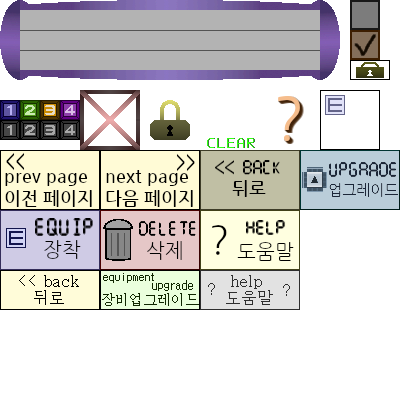
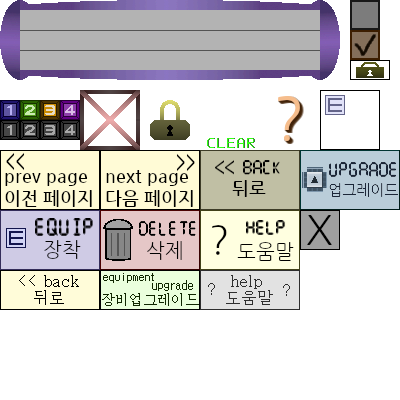
2026/09/02 v0.55.3 - mouse click, keyboard input

Changed region(s): [[0.75, 0.51, 0.87, 0.63]]

diff --git a/js/tamshooter4.js b/js/tamshooter4.js
@@ -149,12 +149,12 @@ class BoxObject {
   }
 
   /**
-   * 박스를 클릭한 경우 (참고: 마우스 좌표값을 넣지 않으면 박스 입장에서 박스를 클릭했는지 알 수 없습니다.)
+   * 박스를 클릭한 경우에 사용해주세요. (참고: 마우스 좌표값을 넣지 않으면 박스 입장에서 박스를 클릭했는지 알 수 없습니다.)
    * @param {number} mouseX 클릭한 마우스의 x좌표
    * @param {number} mouseY 클릭한 마우스의 y좌표
    */
   click (mouseX, mouseY) {
-    if (this.hidden) return
+    if (this.hidden) return false
 
     if (this.collision(mouseX, mouseY)) {
       this.clicked = true
@@ -162,7 +162,144 @@ class BoxObject {
       this.clicked = false
     }
   }
+
+  /** 마우스의 위치와 충돌되었습니까?, 마우스 좌표를 입력하면 마우스와 이 박스가 충돌되었는지를 검사합니다. */
+  getCollision (mouseX = 0, mouseY = 0) {
+    if (this.collision(mouseX, mouseY)) {
+      return true
+    } else {
+      return false
+    }
+  }
 }
+
+
+class UIComponentObject {
+  constructor () {
+    /** 
+     * 배경 그라디언트 색 목록
+     * 
+     * 아무것도 없으면 배경색 없음. 1종류면 단색 처리
+     * @type {string[]}
+     */ 
+    this.backgroundColor = ['red', 'blue']
+
+    this.TITLE_HEIGHT = imageDataInfo.mainSystem.uiClose.height
+    this.titleBackground = ['grey']
+
+    /** 레이어 레벨, 이 값이 0인 경우, 취소 버튼을 누를 때 화면이 닫힙니다. */
+    this.layerLevel = 0
+
+    /** 이 창이 열려있는가?, 창을 닫아야 할 때를 알아내기 위해 만든 변수 */
+    this.isOpen = true
+
+    this.x = 250
+    this.y = 100
+    this.width = 500
+    this.height = 100
+
+    this.tilteImageSrc = imageSrc.system.menuList
+    this.tilteImageObject = imageDataInfo.menuList.roundSelect
+    
+    let uiWidth = imageDataInfo.mainSystem.uiClose.width
+    this.uiCloseBox = new BoxImageObject(this.x + this.width - uiWidth, this.y, uiWidth, imageDataInfo.mainSystem.uiClose.height, '', imageSrc.system.mainSystem, imageDataInfo.mainSystem.uiClose)
+  }
+
+  /** 어떤 버튼이 눌렸는지를 오브젝트로 확인합니다. 버튼이 눌린것은 boolean값으로 확인해야합니다. */
+  getButtonObject () {
+    const buttonA = game.control.getButtonInput(game.control.buttonIndex.A)
+    const buttonB = game.control.getButtonInput(game.control.buttonIndex.B)
+    const buttonX = game.control.getButtonInput(game.control.buttonIndex.X)
+    const buttonY = game.control.getButtonInput(game.control.buttonIndex.Y)
+    const buttonUp = game.control.getButtonInput(game.control.buttonIndex.UP)
+    const buttonDown = game.control.getButtonInput(game.control.buttonIndex.DOWN)
+    const buttonLeft = game.control.getButtonInput(game.control.buttonIndex.LEFT)
+    const buttonRight = game.control.getButtonInput(game.control.buttonIndex.RIGHT)
+    const buttonSkill0 = game.control.getButtonInput(game.control.buttonIndex.L1)
+    const buttonSkill1 = game.control.getButtonInput(game.control.buttonIndex.L2)
+    const buttonSkill2 = game.control.getButtonInput(game.control.buttonIndex.R1)
+    const buttonSkill3 = game.control.getButtonInput(game.control.buttonIndex.R2)
+    return  {
+      buttonA, buttonB, buttonX, buttonY,
+      buttonUp, buttonDown, buttonLeft, buttonRight, buttonSkill0, buttonSkill1, buttonSkill2, buttonSkill3
+    }
+  }
+
+  /** 너비, 높이 설정 */
+  setWidthHeight (width = 400, height = 100) {
+    this.width = width
+    this.height = height
+  }
+
+  process () {
+    // 창이 열려있지 않으면 아무 동작도 하지 않음.
+    if (!this.isOpen) return
+
+    this.processButton()
+    this.processMouse()
+    this.processSelect()
+    this.processCancel()
+    this.processClose()
+  }
+
+  /** 선택을 했을 때 (마우스 클릭, 또는 A버튼) */
+  processSelect () {
+
+  }
+
+  /** 취소를 했을 때 (마우스 클릭 위치가 X표시 부분, 또는 B버튼) */
+  processCancel () {
+
+  }
+
+  /** 창을 닫아야 하거나 닫았을 때 처리 */
+  processClose () {
+    
+  }
+
+  /** 창을 엽니다. */
+  open () {
+    this.isOpen = true
+  }
+
+  /** 창을 닫습니다. */
+  close () {
+    this.isOpen = false
+  }
+
+  /** 버튼을 눌렀을 때 */
+  processButton () {
+    let button = this.getButtonObject()
+    if (button.buttonB) {
+      this.close()
+    }
+  }
+
+  /** 마우스를 움직이거나 클릭했을 때 */
+  processMouse () {
+    if (game.control.getMouseClick()) {
+      if (this.uiCloseBox.collision(game.control.mouseX, game.control.mouseY)) {
+        this.close()
+      }
+    }
+  }
+
+  /** 출력 함수 */
+  display () {
+    // 창이 열려있지 않으면 아무 동작도 하지 않음.
+    if (!this.isOpen) return
+
+    this.displayBackground()
+    gameFunction.imageObjectDisplay(this.tilteImageSrc, this.tilteImageObject, this.x, this.y)
+    this.uiCloseBox.display()
+  }
+
+  displayBackground () {
+    game.graphic.gradientRect(this.x, this.y, this.width, this.height, this.backgroundColor)
+    game.graphic.gradientRect(this.x, this.y, this.width, this.TITLE_HEIGHT, this.titleBackground)
+  }
+}
+
 
 /**
  * 클릭 가능한 BoxObject지만, 이미지를 사용합니다.
@@ -3287,6 +3424,8 @@ export class gameSystem {
   /** etc... 시스템 */ static etcSystem = new EtcSystem()
   /** error 시스템 */ static errorSystem = new ErrorSystem()
 
+  static testUI = new UIComponentObject()
+
 
   /** 현재 게임의 옵션 데이터를 가져옵니다. */
   static getGameOption () {
@@ -3791,6 +3930,8 @@ export class gameSystem {
     this.processSave()
     this.processLoad()
     this.processDebug()
+
+    this.testUI.process()
   }
 
   static fieldProcess () {
@@ -3896,6 +4037,8 @@ export class gameSystem {
       this.userSystem.display()
       this.displayStatLine()
     }
+
+    this.testUI.display()
     
   }
 

diff --git a/js/tamsaEngine/control.js b/js/tamsaEngine/control.js
@@ -325,6 +325,7 @@ export class ControlSystem {
       const canvasZoomHeight = targetElement.clientHeight / targetElement.height
 
       // 마우스의 현재 좌표를 입력합니다.
+      this.setMouseMove()
       this.setMousePosition(e.offsetX / canvasZoomWidth, e.offsetY / canvasZoomHeight)
       e.preventDefault()
     })
@@ -600,8 +601,9 @@ export class ControlSystem {
   getButtonInput (buttonIndex) {
     // 버튼이 눌려져있는 상태라면, 이 상태를 제거한 후 ture를 리턴합니다.
     // 왜냐하면 1번만 눌린 상태를 체크해야 하기 때문입니다.
+
     if (this.isButtonInput[buttonIndex]) {
-      this.isButtonInput[buttonIndex] = false
+      // this.isButtonInput[buttonIndex] = false
       return true
     } else {
       return false
@@ -695,6 +697,10 @@ export class ControlSystem {
         this.buttonPressTime[i] = 0
       }
     }
+
+    for (let i = 0; i < this.isButtonInput.length; i++) {
+      this.isButtonInput[i] = false
+    }
   }
 
   /** 아무 버튼 중 하나라도 눌려있는지를 확인합니다. */
@@ -719,7 +725,7 @@ export class ControlSystem {
   /** 마우스 x좌표 */ mouseX = 0
   /** 마우스 y좌표 */ mouseY = 0
   /** 마우스 누른상태 확인 */ isMouseDown = false
-  /** 마우스 이동 확인 이나 사용하지 않음 */ isMouseMove = false
+  /** 마우스 이동 확인 */ isMouseMove = false
   /** 마우스 클릭 확인 */ isClicked = false
   /** 마우스 클릭 인터벌 id */ clickIntervalId = 0
 
@@ -765,6 +771,7 @@ export class ControlSystem {
    */
   processMouse () {
     this.isClicked = false
+    this.isMouseMove = false
   }
 
 
@@ -778,6 +785,14 @@ export class ControlSystem {
   setMousePosition (offsetX, offsetY) {
     this.mouseX = offsetX
     this.mouseY = offsetY
+  }
+
+  /**
+   * 마우스가 이동 중인 상태로 설정합니다.
+   * (매 프레임마다 해제됨)
+   */
+  setMouseMove () {
+    this.isMouseMove = true
   }
 
   /**
@@ -812,6 +827,11 @@ export class ControlSystem {
     }
   }
 
+  /** 마우스가 이동중인지를 확인함. */
+  getMouseMove () {
+    return this.isMouseMove
+  }
+
   /** 마우스의 x좌표를 가져옵니다. */
   getMouseX () {
     return Math.floor(this.mouseX)
@@ -829,7 +849,7 @@ export class ControlSystem {
    */
   getMouseClick () {
     if (this.isClicked) {
-      this.isClicked = false
+      // this.isClicked = false // 이 부분은 더이상 사용되지 않으며, 엔진의 끝 부분에서 초기화됩니다.
       return true
     } else {
       return false

diff --git a/js/imageSrc.js b/js/imageSrc.js
@@ -836,6 +836,8 @@ export class imageDataInfo {
     /** 라운드 요구 조건의 일부가 맞지 않음 (클리어 등등...) */ roundConditionLock: new ImageDataObject(140, 90, 60, 60),
     /** 라운드를 플레이 하고 클리어한경우 */ roundPlayAfterClear: new ImageDataObject(200, 90, 60, 60),
     /** 라운드가 아직 표시되지 않은 상태 */ roundDisplayQuestionMark: new ImageDataObject(260, 90, 60, 60),
+
+    /** 창 X 닫기 UI */ uiClose: new ImageDataObject(300, 210, 40, 40),
   }
 
   static enemyDieEffectList = {
@@ -1059,15 +1061,15 @@ export class imageDataInfo {
   }
 
   static menuList = {
-    roundSelect: {x: 0, y: 0, width: 400, height: 40, frame: 1},
-    weaponSelect: {x: 0, y: 40, width: 400, height: 40, frame: 1},
-    skillSelect: {x: 0, y: 80, width: 400, height: 40, frame: 1},
-    upgrade: {x: 0, y: 120, width: 400, height: 40, frame: 1},
-    inventory: new ImageDataObject(0, 160, 400, 40),
-    story: new ImageDataObject(0, 200, 400, 40),
-    option: {x: 0, y: 240, width: 400, height: 40, frame: 1},
-    data: {x: 0, y: 280, width: 400, height: 40, frame: 1},
-    etc: {x: 0, y: 320, width: 400, height: 40, frame: 1}
+    roundSelect: {x: 0, y: 0, width: 200, height: 40, frame: 1},
+    weaponSelect: {x: 0, y: 40, width: 200, height: 40, frame: 1},
+    skillSelect: {x: 0, y: 80, width: 200, height: 40, frame: 1},
+    upgrade: {x: 0, y: 120, width: 200, height: 40, frame: 1},
+    inventory: new ImageDataObject(0, 160, 200, 40),
+    story: new ImageDataObject(0, 200, 200, 40),
+    option: {x: 0, y: 240, width: 200, height: 40, frame: 1},
+    data: {x: 0, y: 280, width: 200, height: 40, frame: 1},
+    etc: {x: 0, y: 320, width: 200, height: 40, frame: 1}
   }
 
   static system = {

diff --git a/js/tamsaEngine/tamsaEngine.js b/js/tamsaEngine/tamsaEngine.js
@@ -974,6 +974,8 @@ export class TamsaEngine {
 
       this.control.processButton() // 키 입력 프로세스
       this.control.processMouse() // 마우스 입력 프로세스
+
+      // setInterval 방식을 사용하지 못한 이유
       // 사실 이렇게 된건 firefox의 setInterval이 느리게 작동하기 때문이다.
       // 어쩔수 없이 requsetAnimationFrame을 사용해야 한다.
     }
